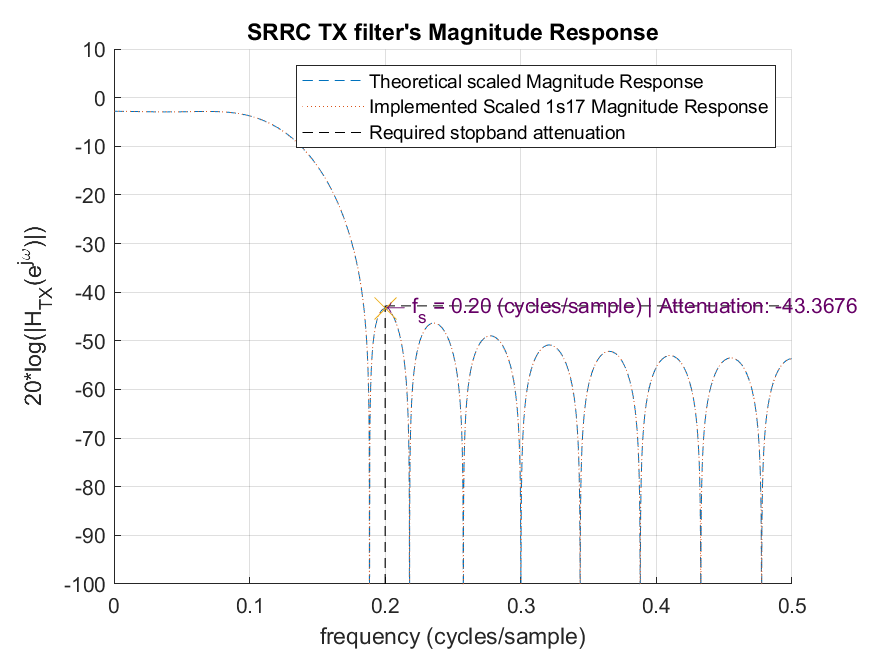
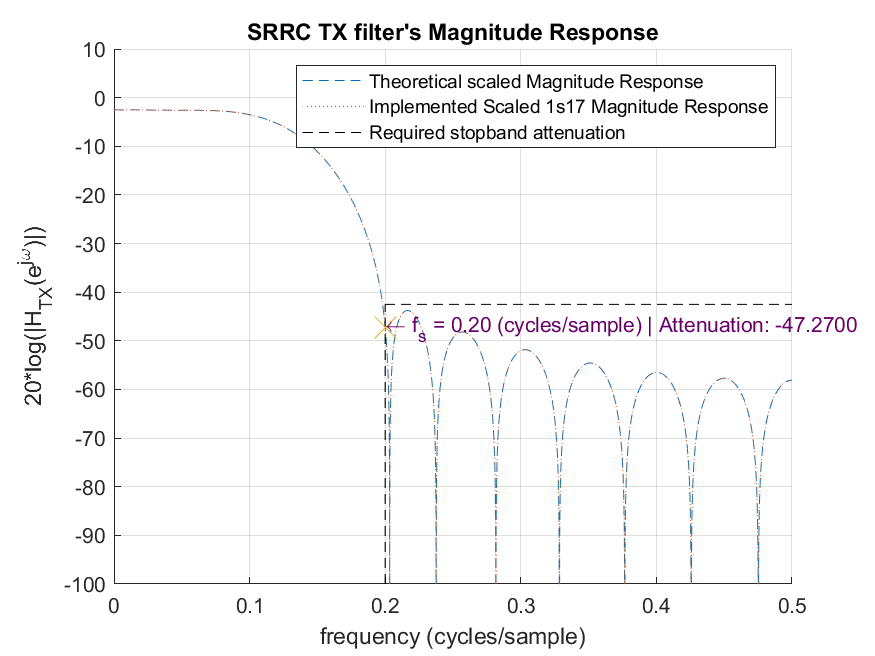
modified matlab script to maxmize MER; current best: MER: 28.19; A: 28; B:.40
modified matlab script to maxmize MER; current best: MER: 28.19; A: 28; B:.40

diff --git a/1Deliverable/Deliverable1.m b/1Deliverable/Deliverable1.m
@@ -166,11 +166,11 @@ fprintf('End of 0s18 Coefficients for SRRC RCV 1s17 filter\n\n');
 % span = M/Nsps;
 % % beta or excess bandwidth
 % beta = 0.21; %beta prior to maximizing MER
-% BEST MER: b: 0.25 | A: 30
-beta = 0.25;
+% BEST MER: b: 0.40 | A: 28
+beta = 0.40;
 % Stopband Attenuation
 % A = 40;   %A prior to maximizing MER
-A = 30;   %Had to adjust for SA
+A = 28;   %Had to adjust for SA
 % beta for Kaiser window | 21 <= A <= 50
 b = 0.5842*((A-21)^0.4)+0.07886*(A-21);
 % stopband frequency (cycles/sample)
@@ -269,7 +269,7 @@ h_TX_0s = h_TX_wn * safety/h_TX_wc;
 % check if max possible output for filter is larger than 1
 if (h_TX_0s * worse_case_TX) > 1
     fprintf('Error! Max possible output for scaled theoretical SRRC TX, h_TX_1s is: %1.17f\n',(h_TX_0s * worse_case_TX));
-    return
+%     return
 end
 
 % compute FR of scaled TX filter's FR
@@ -286,7 +286,7 @@ H_TX_0s18 = freqz( (h_TX_0s18/2^18),1,w);
 % check if max possible output via dot product for filter is larger than 1
 if (h_TX_0s18/2^18 * worse_case_TX) >= 1
     fprintf('Error! Max possible output for scaled SRRC 1s17 TX, h_TX_1s17 is: %1.17f\n',(h_TX_0s18/2^18 * worse_case_TX));
-    return;
+%     return;
 end
 
 % Plot and compare theoretical response with implemented response
@@ -343,6 +343,8 @@ end
     
 MER_theo = 10*log10( num^2/sum(den.^2) );
 % MER_theo = 20*log10( num/sum(den) );
+
+fprintf('\n\nTheoretical MER is: %2.8f\n%s: %0.4f\nA: %2.2f\n\n',MER_theo,cBeta, beta, A);
 
 return
 
